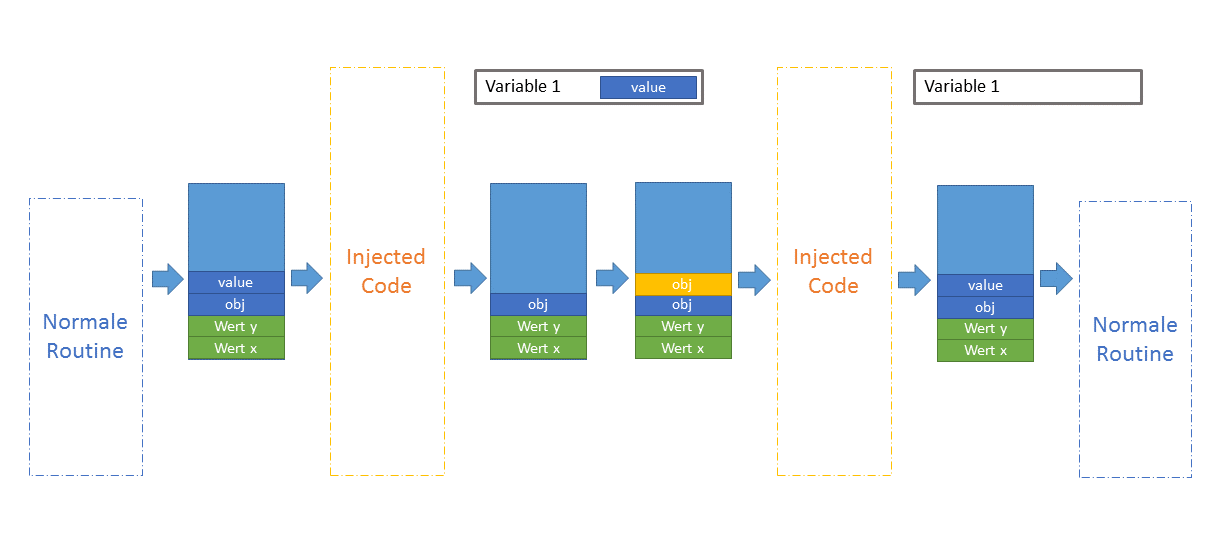
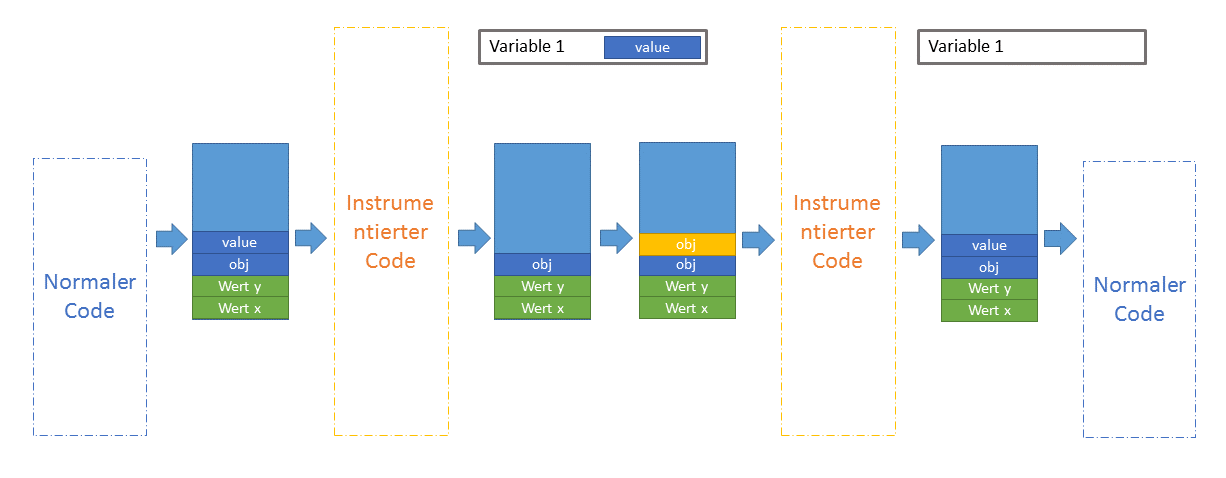
some changes in documentation from review

diff --git a/TechnischeDokumentation/TechnicalDocumentation.tex b/TechnischeDokumentation/TechnicalDocumentation.tex
@@ -134,7 +134,7 @@ Mehr Informationen dazu unter: \ref{vector_algorithm} Vector Clock Algorithmus
 \subsubsection{Race Condition}\label{race_conditons}
 \begin{flushleft}
 TODO: In diesem Kapitel, Ressourcen noch genauer definieren. Wir erwähnen später überall Ressourcen haben aber nirgends definiert was wir unter Ressourcen genau verstehen. (Für Dominik ;))\\
-Bei Race Conditions handelt es sich um Speicherzugriffsfehler. Diese können durch richtige synchronisation (Codeteile, in welchen nur ein Thread gleichzeitig arbeiten kann) verhindert werden. In \autoref{fig:exampleRaceCondition} wird ein Code beschrieben, welcher diese Synchronisation komplett weglässt und daher Race Conditions entstehen.
+Bei Race Conditions handelt es sich um Speicherzugriffsfehler. Diese können durch richtige Synchronisation (z.B. mit Warten auf Beendigung des anderen Thread, oder durch Zustandsüberwachung) verhindert werden. In \autoref{fig:exampleRaceCondition} wird ein Code beschrieben, welcher diese Synchronisation komplett weglässt und daher Data Races entstehen.
 \begin{figure}[H]
 \centering
 \begin{tabular}{|cc|}
@@ -148,7 +148,7 @@ Konto + 200 & Konto - 100 \\
 \caption[Beispiel Race Condition]{Ein unsynchronisierter Zugriff auf ein Konto}
 \label{fig:exampleRaceCondition}
 \end{figure}
-Wenn zwei Threads den Code unter \autoref{fig:exampleRaceCondition} parallel ausführen, ist nicht deterministisch welcher Thread wann durchgeführt wird. Die Situation in \autoref{fig:exampleRaceCondition2} kann dadurch entstehen. Dabei erfährt der zweite Thread nicht, das der erste Thread den Wert angepasst hat und überschreibt den Wert mit seinen falschen Daten.\\\newpage
+Wenn zwei Threads den Code unter \autoref{fig:exampleRaceCondition} neben läufig ausführen, ist nicht deterministisch, wie die Threads zueinander verzahnt oder gleichzeitig laufen. Die Situation in \autoref{fig:exampleRaceCondition2} kann dadurch entstehen. Der zweite Thread registriert die Änderungen des ersten Thread nicht und überschreibt daher den Speicherwert mit den falschen Daten.\\
 \begin{figure}[H]
 \centering
 \begin{tabular}{|cc|}
@@ -240,12 +240,12 @@ Beispiel:\\
 	\end{pmatrix}
 \]
 \\[0.5cm]
-\end{flushleft}
+\end{flushleft}\newpage
 \subsubsection{Microsoft IL Code}\label{chapter_IL}
 \begin{flushleft}
-Der Microsoft IL (Intermediate Language) Code wird verwendet um einen Zwischencode, zwischen dem Compiler und dem Prozessor zu bilden. Da der IL Code vereinheitlicht definiert ist, ist er unabhängig vom verwendeten Prozessor. In diesem Zustand wird das Programm zum Kunden ausgeliefert und erst auf der Maschine dur einen JIT (Just in Time) Compiler zur Laufzeit kompiliert. Dieses Verfahren besitzt den Vorteil, dass der Code auf das jeweilige System abgestimmt wird und dadurch die Funktionen des Prozessors optimal ausnützt. Der Nachteil ist jedoch der Performanceverlust, da jede Methode vor dem Ausführen noch kompiliert werden muss.\\
-Für die Instrumentation, welche für den Dynamic Parallel Checker verwendet wird, ist der IL Code ideal, da er vereinheitlicht ist und daher nur eine Implementation entwickelt werden muss, welche für alle .Net Sprachen, sowie jedes Laufzeitsystem welches .Net unterstützt funktioniert.\newpage
-Der MSIL Code ist Stack-basiert. Dies bedeutet das alle Operationen auf einem Stack durchgeführt werden, welcher nach dem LIFO Prinzip (Last In, First Out) arbeitet. Der Stack wird dazu verwendet die Werte vorzubereiten, zu verarbeiten und wieder vom Stack abzubauen. \autoref{example_stack} zeigt wie eine Operation durchgeführt wird und in welchen Schritten die Parameter auf dem Stack vorbereitet werden müssen\\
+Der Microsoft IL (Intermediate Language) Code (siehe auch: \cite{ecma}) wird verwendet, um einen sprach- und plattformunabhängigen Zwischencode zwischen dem Compiler und dem Prozessor zu bilden. Da der IL Code vereinheitlicht definiert ist, ist er unabhängig von der verwendeten Hardware. In diesem Zustand wird das Programm zum Kunden ausgeliefert und erst auf der Maschine durch einen JIT (Just in Time) Compiler zur Laufzeit kompiliert. Dieses Verfahren besitzt den Vorteil, dass der Code auf das jeweilige System abgestimmt wird und dadurch die Funktionen des Prozessors optimal ausnützt. Der Nachteil ist jedoch der Performanceverlust, da jede Methode vor dem Ausführen noch kompiliert werden muss.\\
+Für die Instrumentation, welche für den Dynamic Parallel Checker verwendet wird, ist der IL Code ideal, da er vereinheitlicht ist und daher nur eine Implementation entwickelt werden muss, welche für alle .NET Sprachen, sowie jedes Laufzeitsystem welches die .NET Runtime unterstützt funktioniert.\\
+Der MSIL Code ist Stack-basiert. Dies bedeutet das alle Operationen auf einem Stack nach dem LIFO Prinzip (Last In, First Out) durchgeführt werden. Der Stack wird dazu verwendet, die Werte vorzubereiten, zu verarbeiten und wieder vom Stack abzubauen. \autoref{example_stack} zeigt, wie eine Operation durchgeführt wird und in welchen Schritten die Parameter auf dem Stack vorbereitet werden müssen.\\
 \begin{figure}[H]
 \centering
 \includegraphics[scale=0.5]{images/BeispielStack.png}
@@ -256,15 +256,44 @@ Eine Instruktion im MSIL Code setzt sich jeweils aus einem OpCode und einem Oper
 \begin{lstlisting}
 ldsflda    class TestProgram.NewObject TestProgram.Program::_obj1
 \end{lstlisting}
-In diesem Beispiel eines IL Code ist "ldsflda" der OpCode und "class TestProgram.NewObject TestProgram.Program::\_obj1" der Operand. Der OpCode (Operation Code) identifiziert was die Operation durchführen soll. Hier "ldsflda" (Load Static Field Address). Dabei wird vom Operand definierten Static Field die Speicheradresse ausgelesen und auf den Stack gelegt. Der Operand ist daher jeweils die Ressource welche für den OpCode verwendet wird. Der Typ des Operand ist durch den OpCode definiert.\\
+In diesem Beispiel eines IL Code ist "ldsflda" der OpCode und "class TestProgram.NewObject TestProgram.Program::\_obj1" der Operand. Der OpCode (Operation Code) identifiziert was die Operation durchführen soll. Hier "ldsflda" (Load Static Field Address). Dabei wird vom Operand definierten Static Field die Speicheradresse ausgelesen und auf den Stack gelegt. Der Operand ist daher jeweils die Ressource, welche für den OpCode verwendet wird. Der Typ des Operand ist durch den OpCode definiert.\\
 Um erfolgreich den Source Code für den Dynamic Parallel Checker zu instrumentieren (sh. \autoref{example_injection}), muss der Aufbau des Stacks immer sichergestellt werden. Daher müssen Werte um Sie aus dem Stack herauszulesen, immer dupliziert werden, damit das Programm erfolgreich durchgeführt werden kann.\\
 \begin{figure}[H]
 \centering
 \includegraphics[scale=0.5]{images/BeispielInjection.png}
-\caption{Beispiel Code Injection, Stack Verhalten}
+\caption{Beispiel Code Instrumentation, Stack Verhalten}
 \label{example_injection}
 \end{figure}
-In \autoref{example_injection} ist ein Beispiel dargestellt, wie eine Injection den Stack verwaltet und dabei die benötigte Information "obj" aus dem Stack extrahiert und den Ursprungszustand wiederherstellt. Da bei einem LIFO Stack nur auf das oberste Element zugegriffen werden kann, wird der Top-Wert "value" in eine lokale Variable gespeichert. Nach dem Abbau des duplizieren "obj" wird der Wert wieder aus der Variable auf den Stack gelegt.
+In \autoref{example_injection} ist ein Beispiel dargestellt, wie eine Instrumentation den Stack verwaltet und dabei die benötigte Information "obj" aus dem Stack extrahiert und den Ursprungszustand wiederherstellt. Da bei einem LIFO Stack nur auf das oberste Element zugegriffen werden kann, wird der Top-Wert "value" in eine lokale Variable gespeichert. Nach dem Abbau des duplizieren "obj" wird der Wert wieder aus der Variable auf den Stack gelegt.
+\end{flushleft}
+\subsubsection{Instrumentation}
+\begin{flushleft}
+Für die Durchführung des Vector Clock Algorithmus (sh. Kapitel \ref{vector_algorithm}) ist es wichtig die Informationen über Lese- / Schreibzugriffe sowie Locks und Thread.Starts zu erhalten. Dazu muss der bestehende IL Code angepasst (instrumentiert) werden, damit er diese Informationen preisgibt. Dazu wird der Code analysiert und an Stellen mit wichtigen Zugriffen um Code erweitert. Wie in Kapitel \ref{chapter_IL} bereits beschrieben muss dabei der korrekte Aufbau des Stack jederzeit sichergestellt werden. Für die Instrumentation des Codes wird die Library Mono.Cecil aus dem Mono Projekt verwendet \cite{monocecil}. Die Library erlaubt es den IL Code zu lesen und zu bearbeiten. 
+\begin{figure}[H]
+\centering
+\begin{lstlisting}[language=CIL,backgroundcolor=\color{backcolor}]
+IL_001a:  box        [mscorlib]System.Int32
+IL_001f:  stsfld     object TestProgram.Program::_a
+\end{lstlisting}
+\caption{Beispiel ohne Instrumentation}\label{example_codeWithoutInstrum}
+\end{figure}
+\autoref{example_codeWithoutInstrum} zeigt ein Beispiel, eines typischen Schreibzugriff im MS IL. Der Befehl "box" führt ein Boxing eines Integers durch. Dabei wird der Integerwert von einem Valuetype zu einem Referenztyp umgebaut. Auf dem Stack liegt nach dem Boxing die Adresse des Integer-Werts. Diese Adresse wird dann verwendet um den Wert in die Variable "\_a" mit dem Befehl "stsfld"(Store Static Field) zu speichern.\\
+\begin{figure}[H]
+\centering
+\begin{lstlisting}[language=CIL,backgroundcolor=\color{backcolor}]
+IL_001a:  box        [mscorlib]System.Int32
+//----------Instrumented Code...----------------
+IL_001f:  ldsflda    object TestProgram.Program::_a
+IL_0024:  ldc.i4.s   31
+IL_0026:  ldstr      "System.Void TestProgram.Program::Test()"
+IL_002b:  call       void [DPCLibrary]DPCLibrary.DpcLibrary::
+                                 WriteAccess(int32,int32,string)
+//----------...End Instrumentation--------------
+IL_0030:  stsfld     object TestProgram.Program::_a
+\end{lstlisting}
+\caption{Instrumentierter IL Code}\label{example_instrumentedCode}
+\end{figure}
+\autoref{example_instrumentedCode} zeigt den Code nach dem der Dynamic Parallel Checker diesen instrumentiert hat. Wie in \autoref{example_codeWithoutInstrum}, startet der Code mit "box" und endet mit "stsfld". Dazwischen wurde der Code um den Dynamic Parallel Checker erweitert. Um zu wissen, auf welche Variable der Schreibzugriff durchgeführt wird, wird mit "ldsflda" (Load static Field Address) die Adresse der Ressource ausgelesen und auf den Stack gelegt. Danach wird die Zeilennummer des Schreibzugriff auf den Stack gelegt (Man beachte: Die Zeilennummer zeigt die Zeile vor der Instrumentation), um bei einem Fehler aufzuzeigen, welche Codezeilen diesen verursacht haben. Daher wird auch als nächstes der Methodennamen als String auf den Stack gelegt. Als letzte instrumentierte Zeile werden dann die Informationen an den Dynamic Parallel Checker übergeben. Dies wird mit der Methode "WriteAccess(int32,int32,string)" durchgeführt. Nach dem Instrumentierten Code hat der Stack wieder den gleichen Zustand wie nach dem "Box" Befehl in \autoref{example_codeWithoutInstrum}.
 \end{flushleft}
 \subsection{Implementation}\label{implementation}
 In diesem Kapitel wird die Implementation des Dynamic Prallel Checker genauer erklärt. Unter \ref{example} ist das Beispiel beschrieben an welchem, in den folgenden Kapitel, die Funktion des Dynamic Parallel Checkers beschrieben wird. Der Dynamic Parallel Checker wurde mit C\#.Net entwickelt.
@@ -317,35 +346,6 @@ Da der Code in \autoref{basic_example} asynchron durchgeführt wird, werden die 
 \end{figure}
 \end{flushleft}
 \newpage
-\subsubsection{Instrumentation}
-\begin{flushleft}
-Für die Durchführung des Vector Clock Algorithmus (sh. Kapitel \ref{vector_algorithm}) ist es wichtig die Informationen über Lese- / Schreibzugriffe sowie Locks und Thread.Starts zu erhalten. Dazu muss der bestehende IL Code angepasst (instrumentiert) werden, damit er diese Informationen preisgibt. Dazu wird der Code analysiert und an Stellen mit wichtigen Zugriffen um Code erweitert. Wie in Kapitel \ref{chapter_IL} bereits beschrieben muss dabei der korrekte Aufbau des Stack jederzeit sichergestellt werden. Für die Instrumentation des Codes wird die Library Mono.Cecil aus dem Mono Projekt verwendet. Die Library erlaubt es den IL Code zu lesen und zu bearbeiten. 
-\begin{figure}[H]
-\centering
-\begin{lstlisting}[language=CIL,backgroundcolor=\color{backcolor}]
-IL_001a:  box        [mscorlib]System.Int32
-IL_001f:  stsfld     object TestProgram.Program::_a
-\end{lstlisting}
-\caption{Beispiel ohne Instrumentation}\label{example_codeWithoutInstrum}
-\end{figure}
-\autoref{example_codeWithoutInstrum} zeigt ein Beispiel, eines typischen Schreibzugriff im MS IL. Der Befehl "box" führt ein Boxing eines Integers durch. Dabei wird der Integerwert von einem Valuetype zu einem Referenztyp umgebaut. Auf dem Stack liegt nach dem Boxing die Adresse des Integer-Werts. Diese Adresse wird dann verwendet um den Wert in die Variable "\_a" mit dem Befehl "stsfld"(Store Static Field) zu speichern.\\
-\begin{figure}[H]
-\centering
-\begin{lstlisting}[language=CIL,backgroundcolor=\color{backcolor}]
-IL_001a:  box        [mscorlib]System.Int32
-//----------Instrumented Code...----------------
-IL_001f:  ldsflda    object TestProgram.Program::_a
-IL_0024:  ldc.i4.s   31
-IL_0026:  ldstr      "System.Void TestProgram.Program::Test()"
-IL_002b:  call       void [DPCLibrary]DPCLibrary.DpcLibrary::
-                                 WriteAccess(int32,int32,string)
-//----------...End Instrumentation--------------
-IL_0030:  stsfld     object TestProgram.Program::_a
-\end{lstlisting}
-\caption{Instrumentierter IL Code}\label{example_instrumentedCode}
-\end{figure}
-\autoref{example_instrumentedCode} zeigt den Code nach dem der Dynamic Parallel Checker diesen instrumentiert hat. Wie in \autoref{example_codeWithoutInstrum}, startet der Code mit "box" und endet mit "stsfld". Dazwischen wurde der Code um den Dynamic Parallel Checker erweitert. Um zu wissen auf welche Variable der Schreibzugriff durchgeführt wird, wird mit "ldsflda" (Load static Field Address) die Adresse der Resource ausgelesen und auf den Stack gelegt. Danach wird die Zeilennummer des Schreibzugriff auf den Stack gelegt (Man beachte: Die Zeilennummer zeigt die Zeile vor der Instrumentation) um bei einem Fehler aufzuzeigen, welche Code Zeilen diesen verursacht haben. Daher wird auch als nächstes der Methodennamen als String auf den Stack gelegt. Als letzte instrumentierte Zeile werden dann die Informationen an den Dynamic Parallel Checker übergeben. Dies wird mit der Methode "WriteAccess(int32,int32,string)" durchgeführt. Nach dem Instrumentierten Code hat der Stack wieder den gleichen Zustand wie nach dem "Box" Befehl in \autoref{example_codeWithoutInstrum}.
-\end{flushleft}
 \subsubsection{Vector Clock pro Thread}
 \begin{flushleft}
 Die Vector Clock eignet sich optimal für die History des Dynamic Parallel Checkers. Jeder Thread erhält seine eigene Vektor Clock, in der er die Zeitstempel der anderen Threads mitführt. Es wird nicht der aktuelle Zeitstempel mitgeführt, sondern der Zeitstempel der bei der letzten direkten oder indirekten Synchronisation mit diesem Thread mitgeliefert wurde. Bei einem Synchronisationspunkt wird die Vector Clock mit der Vector Clock aus der Lock-History synchronisiert (sh. \ref{lock_history}). Die Reihenfolge der Synchronisation ist jedoch nicht deterministisch und hängt vom Thread-Scheduler ab.\\
@@ -825,6 +825,7 @@ Um die Erkennungsrate des Algorithmus erhöhen zu können, müssen Tools mehrmal
 \subsection*{Persönliches Fazit}
 \subsubsection*{Fabian Keller}
 \subsubsection*{Dominik Heeb}
+Die Arbeit "A study of dynamic parallel checking methods" war für mich eine sehr spannende und lehrreiche Arbeit. Fabian und ich hatten zum Start über das Thema "dynamic checking" nur wenige Kenntnisse. Das Thema Concurrency hat mich persönlich sehr interessiert, da ich es schon mehrmals verwendet habe, aber noch nie tiefer angeschaut. Durch dieses Projekt hatten wir die Möglichkeit einen ganz anderen Blickwinkel über die Programmierung zu erhalten. Da wir früh schon eine grundsätzliche Idee für den Algorithmus hatten, war die Entwicklung effizienter von statten gegangen als wir uns gedacht hatten. Ich fand sehr gut, dass wir nicht einfach einen Algorithmus aus einem Paper implementiert haben, sondern durch diese Idee einen Algorithmus selbst entwickeln konnten und daher auch kennenlernen, was hinter der Entwicklung eines solchen für Arbeit steckt.
 \subsection*{Liste instrumentierte mscorlib Methoden}\label{sec:instrumentierte_methoden}
 Bereits instrumentierte Methoden:
 \begin{itemize}
